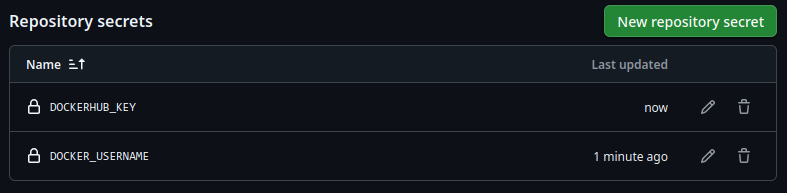
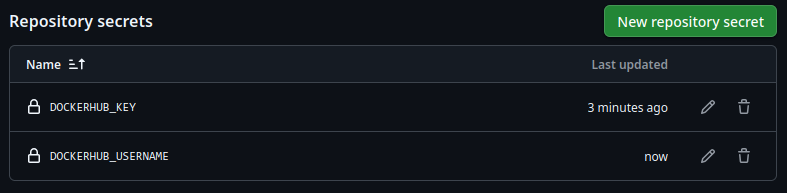
Fix username

Changed region(s): [[0.7319, 0.5285, 0.8539, 0.5907], [0.0915, 0.7772, 0.2135, 0.8394], [0.7624, 0.7772, 0.8539, 0.8394]]

diff --git a/doc.md b/doc.md
@@ -33,3 +33,11 @@ Majd összelinkeltem a lokális git repót.
 ```bash
 git remote add origin git@github.com:kisbogdan-kolos/cicd2.git
 ```
+
+Ezután beállítottam a GitHub-os környezeti változókat:
+
+![alt text](image-2.png)
+
+```bash
+git push --set-upstream origin master
+```
